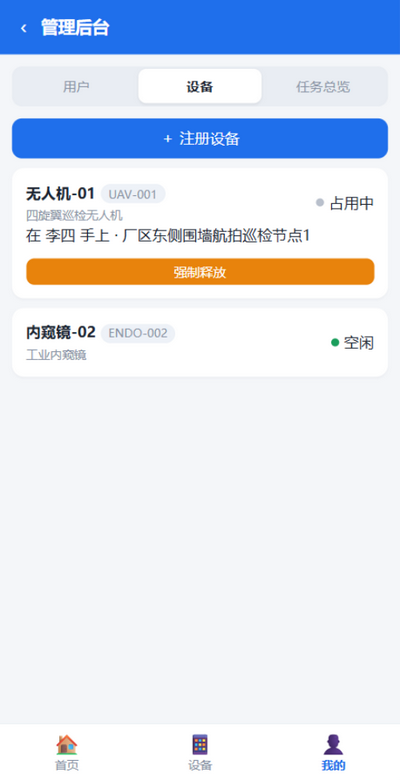
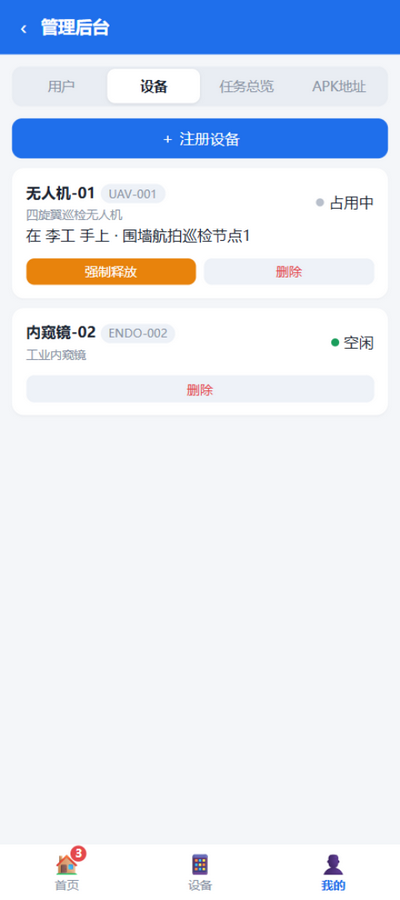
README：界面预览更新为 12 张全功能截图（含注册/反馈申诉置顶/修改任务/提交修改/前置搜索/APK 配置）

diff --git a/README.md b/README.md
@@ -8,11 +8,17 @@
 
 ## 界面预览
 
-| 登录 | 任务详情（前置设备 + 我的操作） |
+| 登录 / 注册 | 首页（三栏数字常显 + 角标） |
 | --- | --- |
-| ![登录](docs/screenshots/login.png) | ![任务详情](docs/screenshots/task-detail.png) |
-| **任务链全流程 + 时间线** | **管理后台 · 设备** |
-| ![全流程](docs/screenshots/chain-timeline.png) | ![管理后台](docs/screenshots/admin-devices.png) |
+| ![登录](docs/screenshots/login.png) | ![首页](docs/screenshots/home-unfinished.png) |
+| **待审核：反馈与申诉卡片直达处理** | **任务详情：前置设备状态 + 完成条件** |
+| ![待审核](docs/screenshots/home-feedback.png) | ![任务详情](docs/screenshots/task-detail.png) |
+| **反馈/申诉置顶，一键回复 / 修改任务并处理** | **待审核期间可修改提交内容** |
+| ![申诉置顶](docs/screenshots/task-appeal-top.png) | ![修改提交](docs/screenshots/edit-submission.png) |
+| **修改任务弹窗（变更摘要自动回复申诉人）** | **前置任务选择支持搜索** |
+| ![处理申诉](docs/screenshots/edit-task-appeal.png) | ![前置搜索](docs/screenshots/prereq-search.png) |
+| **管理后台 · 设备（领用/释放/删除保护）** | **APK 地址与救援邮箱配置** |
+| ![管理后台](docs/screenshots/admin-devices.png) | ![APK地址](docs/screenshots/apk-entry.png) |
 
 ## 功能特性
 

diff --git a/README.en.md b/README.en.md
@@ -8,11 +8,17 @@ Works as a web app (usable directly in the phone browser, nothing to install) an
 
 ## Screenshots
 
-| Login | Task detail (prerequisite equipment + actions) |
+| Login / register | Home (persistent counters + badges) |
 | --- | --- |
-| ![Login](docs/screenshots/login.png) | ![Task detail](docs/screenshots/task-detail.png) |
-| **Chain & full audit timeline** | **Admin console · devices** |
-| ![Timeline](docs/screenshots/chain-timeline.png) | ![Admin](docs/screenshots/admin-devices.png) |
+| ![Login](docs/screenshots/login.png) | ![Home](docs/screenshots/home-unfinished.png) |
+| **Pending: feedback & appeal cards** | **Task detail: equipment prerequisite + criteria** |
+| ![Pending](docs/screenshots/home-feedback.png) | ![Detail](docs/screenshots/task-detail.png) |
+| **Appeals pinned on top, reply / edit-and-resolve** | **Editable submission before review** |
+| ![Appeal top](docs/screenshots/task-appeal-top.png) | ![Edit submission](docs/screenshots/edit-submission.png) |
+| **Edit task (change summary auto-replied to appellant)** | **Searchable prerequisite picker** |
+| ![Edit task](docs/screenshots/edit-task-appeal.png) | ![Search](docs/screenshots/prereq-search.png) |
+| **Admin console · devices** | **APK URL & rescue mailbox config** |
+| ![Admin](docs/screenshots/admin-devices.png) | ![APK entry](docs/screenshots/apk-entry.png) |
 
 ## Features
 
